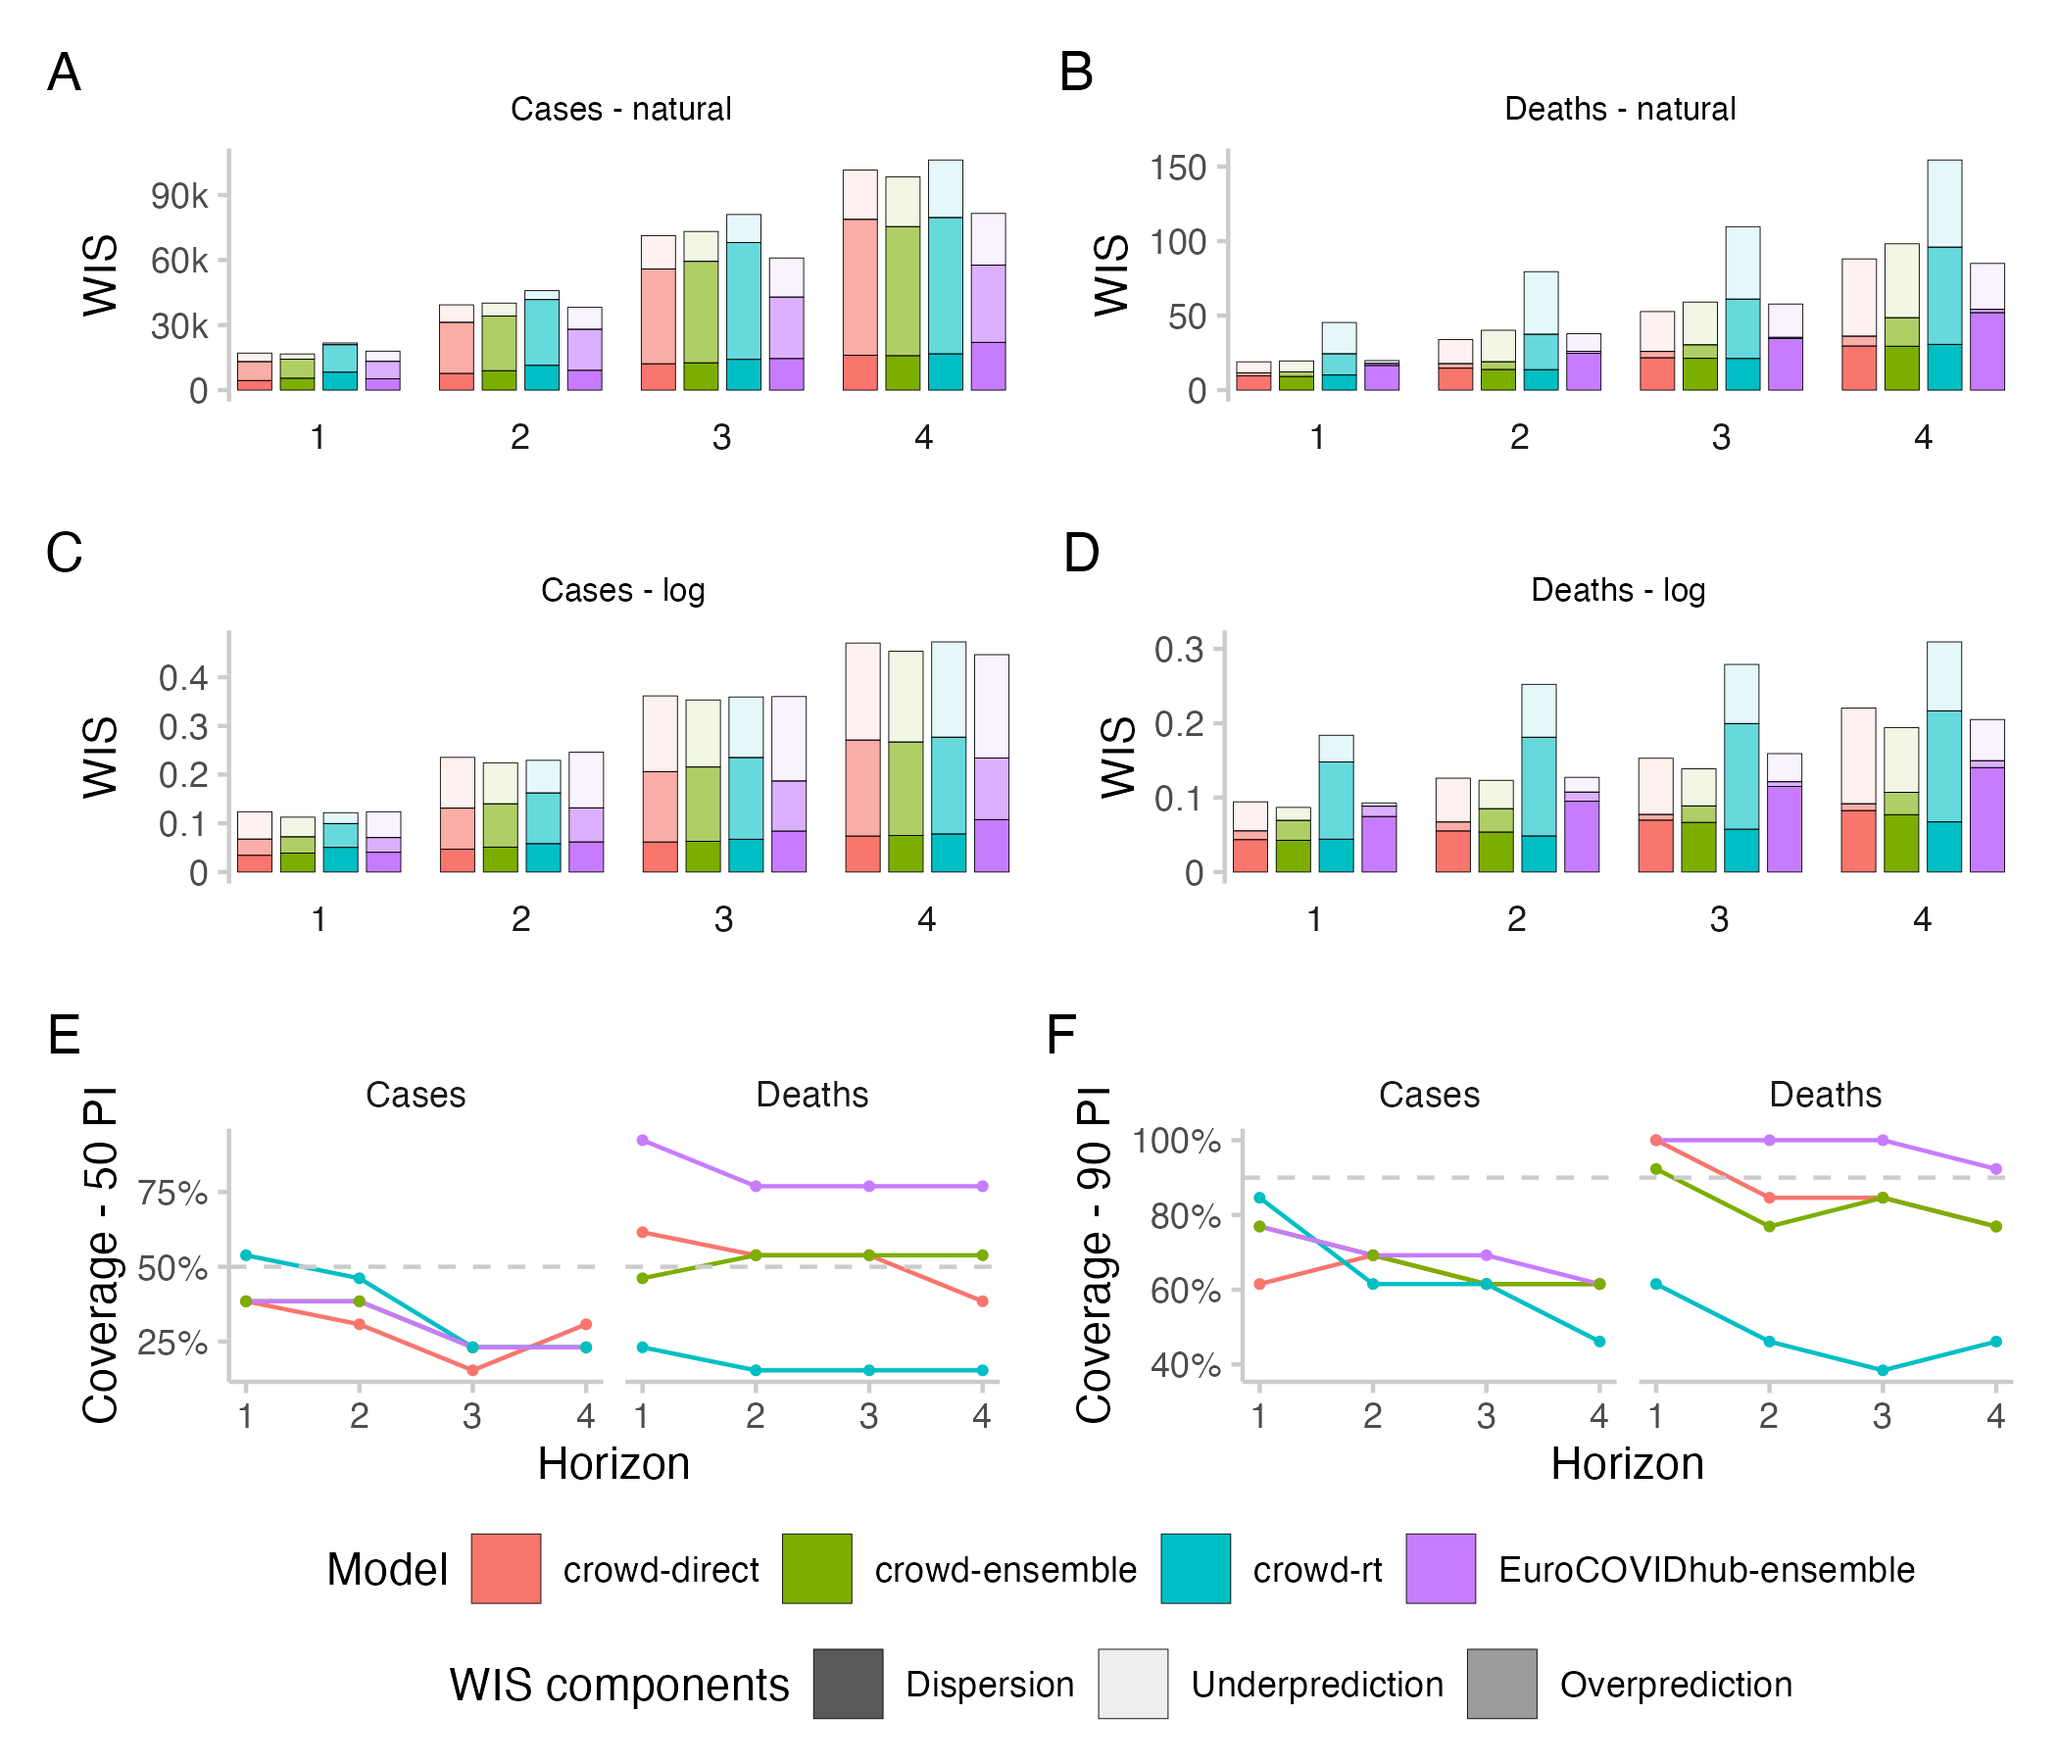
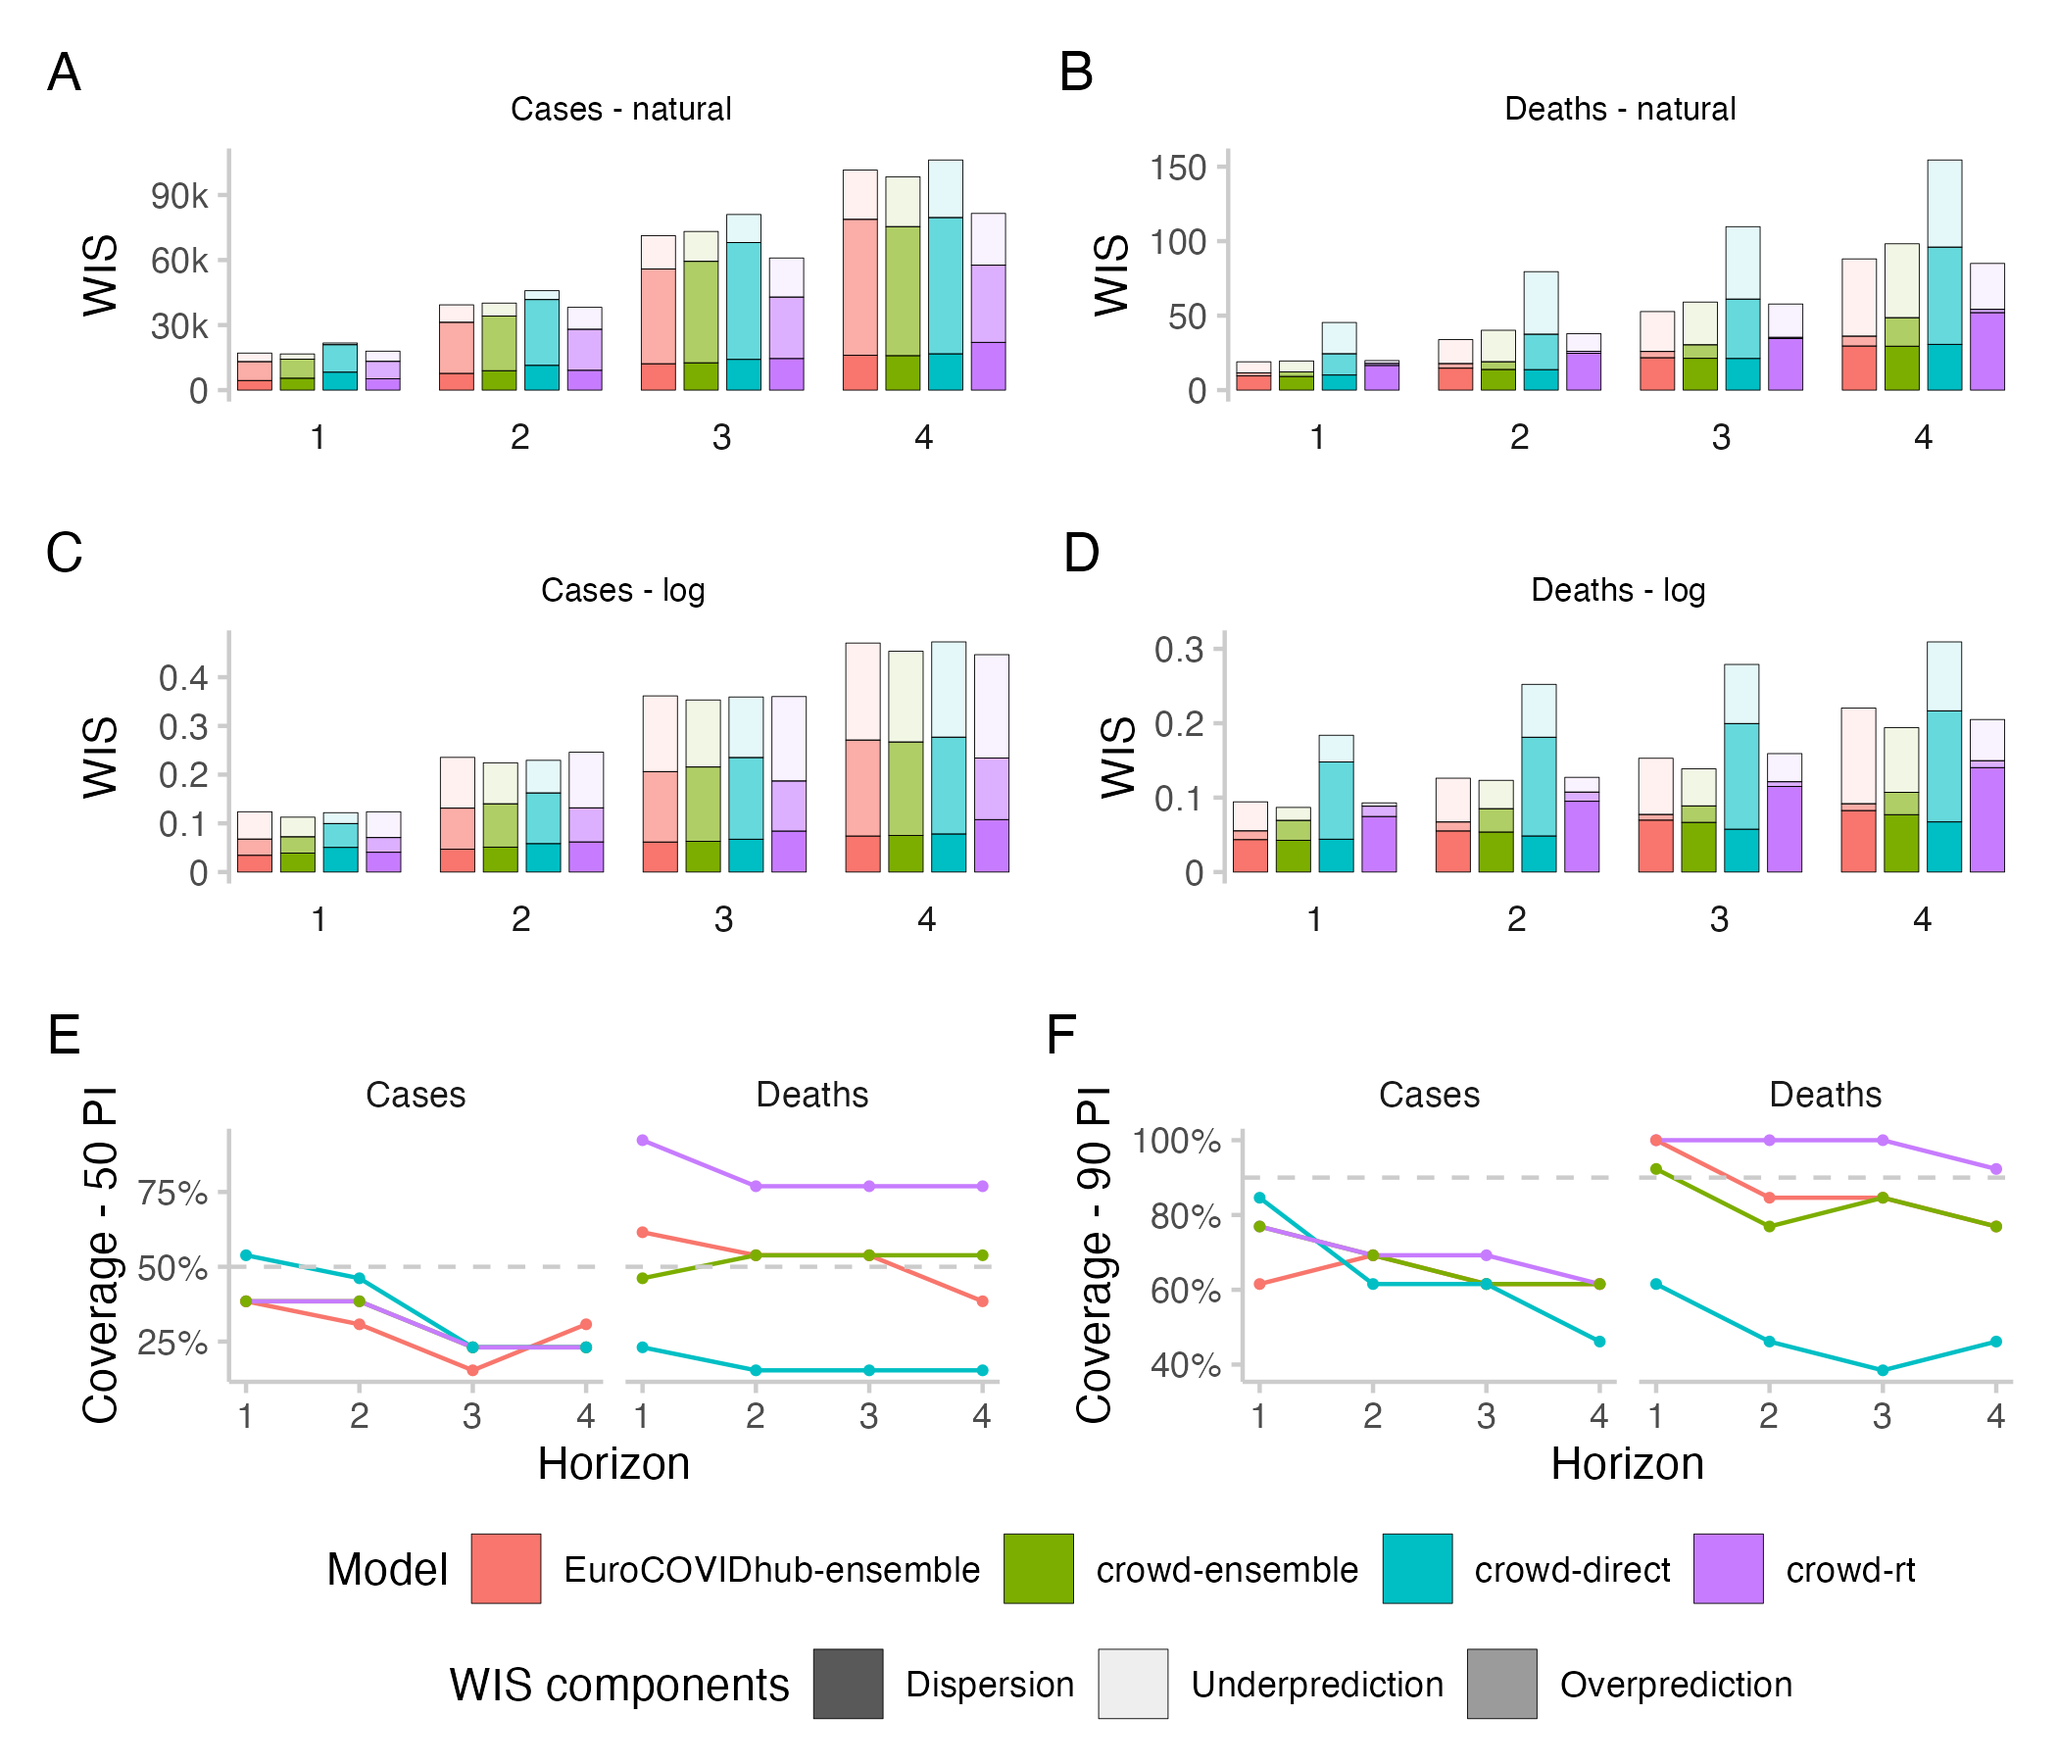
change order of models in plots and table

Changed region(s): [[0.2786, 0.8711, 0.9286, 0.9333]]

diff --git a/manuscript/performance-table-horizon-4.tex b/manuscript/performance-table-horizon-4.tex
@@ -5,19 +5,19 @@
 \resizebox{\linewidth}{!}{
 \begin{tabular}[t]{llccccllcc}
 \toprule
-\multicolumn{2}{c}{ } & \multicolumn{3}{c}{WIS} & \multicolumn{3}{c}{WIS - log scale} & \multicolumn{2}{c}{ } \\
+\multicolumn{2}{c}{ } & \multicolumn{3}{c}{WIS - natural} & \multicolumn{3}{c}{WIS - log scale} & \multicolumn{2}{c}{ } \\
 \cmidrule(l{3pt}r{3pt}){3-5} \cmidrule(l{3pt}r{3pt}){6-8}
 Model & Target & abs. & rel. & sd & abs. & rel. & sd & Coverage 50\% & Coverage 90\%\\
 \midrule
-EuroCOVIDhub-ensemble & Cases & 82k & 1 & 75k & 0.45 & 1 & 0.3 & 0.23 & 0.62\\
-crowd-direct & Cases & 100k & 1.2 & 130k & 0.47 & 1.1 & 0.41 & 0.31 & 0.62\\
+EuroCOVIDhub-ensemble & Cases & 100k & 1.2 & 130k & 0.47 & 1.1 & 0.41 & 0.31 & 0.62\\
 crowd-ensemble & Cases & 98k & 1.2 & 120k & 0.45 & 1 & 0.35 & 0.23 & 0.62\\
-crowd-rt & Cases & 110k & 1.3 & 120k & 0.47 & 1.1 & 0.33 & 0.23 & 0.46\\
+crowd-direct & Cases & 110k & 1.3 & 120k & 0.47 & 1.1 & 0.33 & 0.23 & 0.46\\
+crowd-rt & Cases & 82k & 1 & 75k & 0.45 & 1 & 0.3 & 0.23 & 0.62\\
 \addlinespace
-EuroCOVIDhub-ensemble & Deaths & 85 & 1 & 60 & 0.21 & 1 & 0.08 & 0.77 & 0.92\\
-crowd-direct & Deaths & 88 & 1 & 81 & 0.22 & 1.1 & 0.14 & 0.38 & 0.77\\
+EuroCOVIDhub-ensemble & Deaths & 88 & 1 & 81 & 0.22 & 1.1 & 0.14 & 0.38 & 0.77\\
 crowd-ensemble & Deaths & 98 & 1.2 & 100 & 0.19 & 0.95 & 0.13 & 0.54 & 0.77\\
-crowd-rt & Deaths & 150 & 1.8 & 110 & 0.31 & 1.5 & 0.17 & 0.15 & 0.46\\
+crowd-direct & Deaths & 150 & 1.8 & 110 & 0.31 & 1.5 & 0.17 & 0.15 & 0.46\\
+crowd-rt & Deaths & 85 & 1 & 60 & 0.21 & 1 & 0.08 & 0.77 & 0.92\\
 \bottomrule
 \end{tabular}}
 \end{table*}

diff --git a/manuscript/performance-table.tex b/manuscript/performance-table.tex
@@ -5,19 +5,19 @@
 \resizebox{\linewidth}{!}{
 \begin{tabular}[t]{llccccllcc}
 \toprule
-\multicolumn{2}{c}{ } & \multicolumn{3}{c}{WIS} & \multicolumn{3}{c}{WIS - log scale} & \multicolumn{2}{c}{ } \\
+\multicolumn{2}{c}{ } & \multicolumn{3}{c}{WIS - natural} & \multicolumn{3}{c}{WIS - log scale} & \multicolumn{2}{c}{ } \\
 \cmidrule(l{3pt}r{3pt}){3-5} \cmidrule(l{3pt}r{3pt}){6-8}
 Model & Target & abs. & rel. & sd & abs. & rel. & sd & Coverage 50\% & Coverage 90\%\\
 \midrule
-EuroCOVIDhub-ensemble & Cases & 38k & 1 & 56k & 0.25 & 1 & 0.22 & 0.38 & 0.69\\
-crowd-direct & Cases & 39k & 1 & 67k & 0.24 & 0.96 & 0.27 & 0.31 & 0.69\\
+EuroCOVIDhub-ensemble & Cases & 39k & 1 & 67k & 0.24 & 0.96 & 0.27 & 0.31 & 0.69\\
 crowd-ensemble & Cases & 40k & 1.1 & 69k & 0.22 & 0.91 & 0.25 & 0.38 & 0.69\\
-crowd-rt & Cases & 46k & 1.2 & 75k & 0.23 & 0.93 & 0.24 & 0.46 & 0.62\\
+crowd-direct & Cases & 46k & 1.2 & 75k & 0.23 & 0.93 & 0.24 & 0.46 & 0.62\\
+crowd-rt & Cases & 38k & 1 & 56k & 0.25 & 1 & 0.22 & 0.38 & 0.69\\
 \addlinespace
-EuroCOVIDhub-ensemble & Deaths & 38 & 1 & 27 & 0.13 & 1 & 0.036 & 0.77 & 1\\
-crowd-direct & Deaths & 34 & 0.89 & 31 & 0.13 & 0.99 & 0.081 & 0.54 & 0.85\\
+EuroCOVIDhub-ensemble & Deaths & 34 & 0.89 & 31 & 0.13 & 0.99 & 0.081 & 0.54 & 0.85\\
 crowd-ensemble & Deaths & 40 & 1.1 & 42 & 0.12 & 0.97 & 0.073 & 0.54 & 0.77\\
-crowd-rt & Deaths & 80 & 2.1 & 73 & 0.25 & 2 & 0.13 & 0.15 & 0.46\\
+crowd-direct & Deaths & 80 & 2.1 & 73 & 0.25 & 2 & 0.13 & 0.15 & 0.46\\
+crowd-rt & Deaths & 38 & 1 & 27 & 0.13 & 1 & 0.036 & 0.77 & 1\\
 \bottomrule
 \end{tabular}}
 \end{table}
